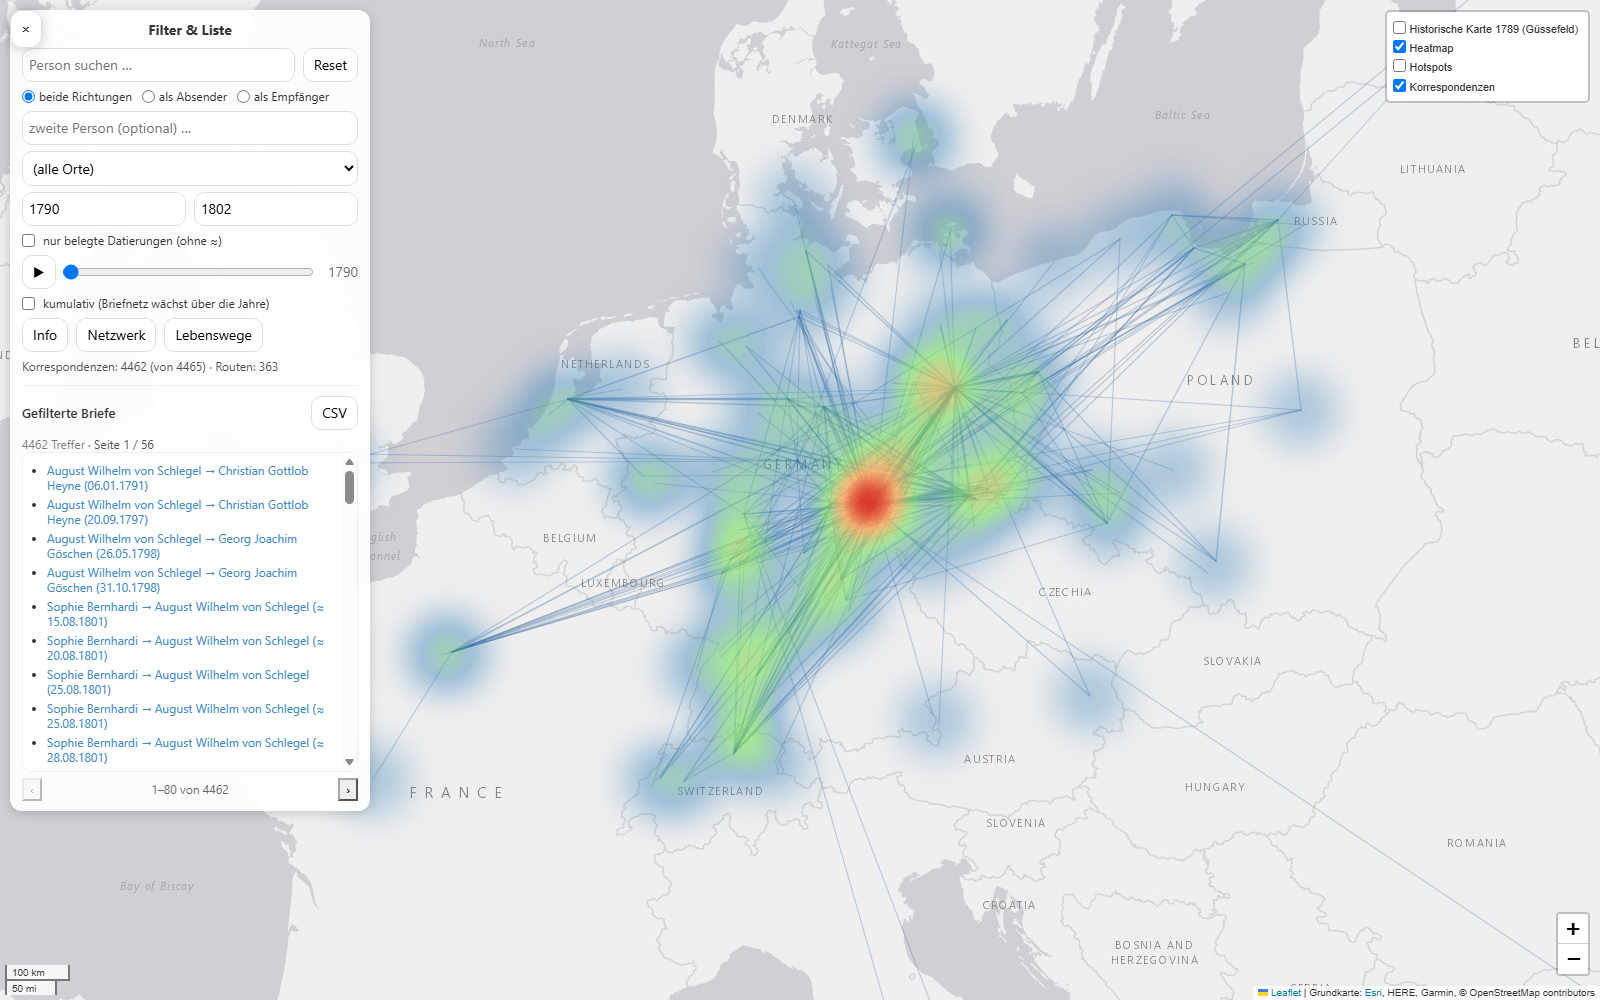
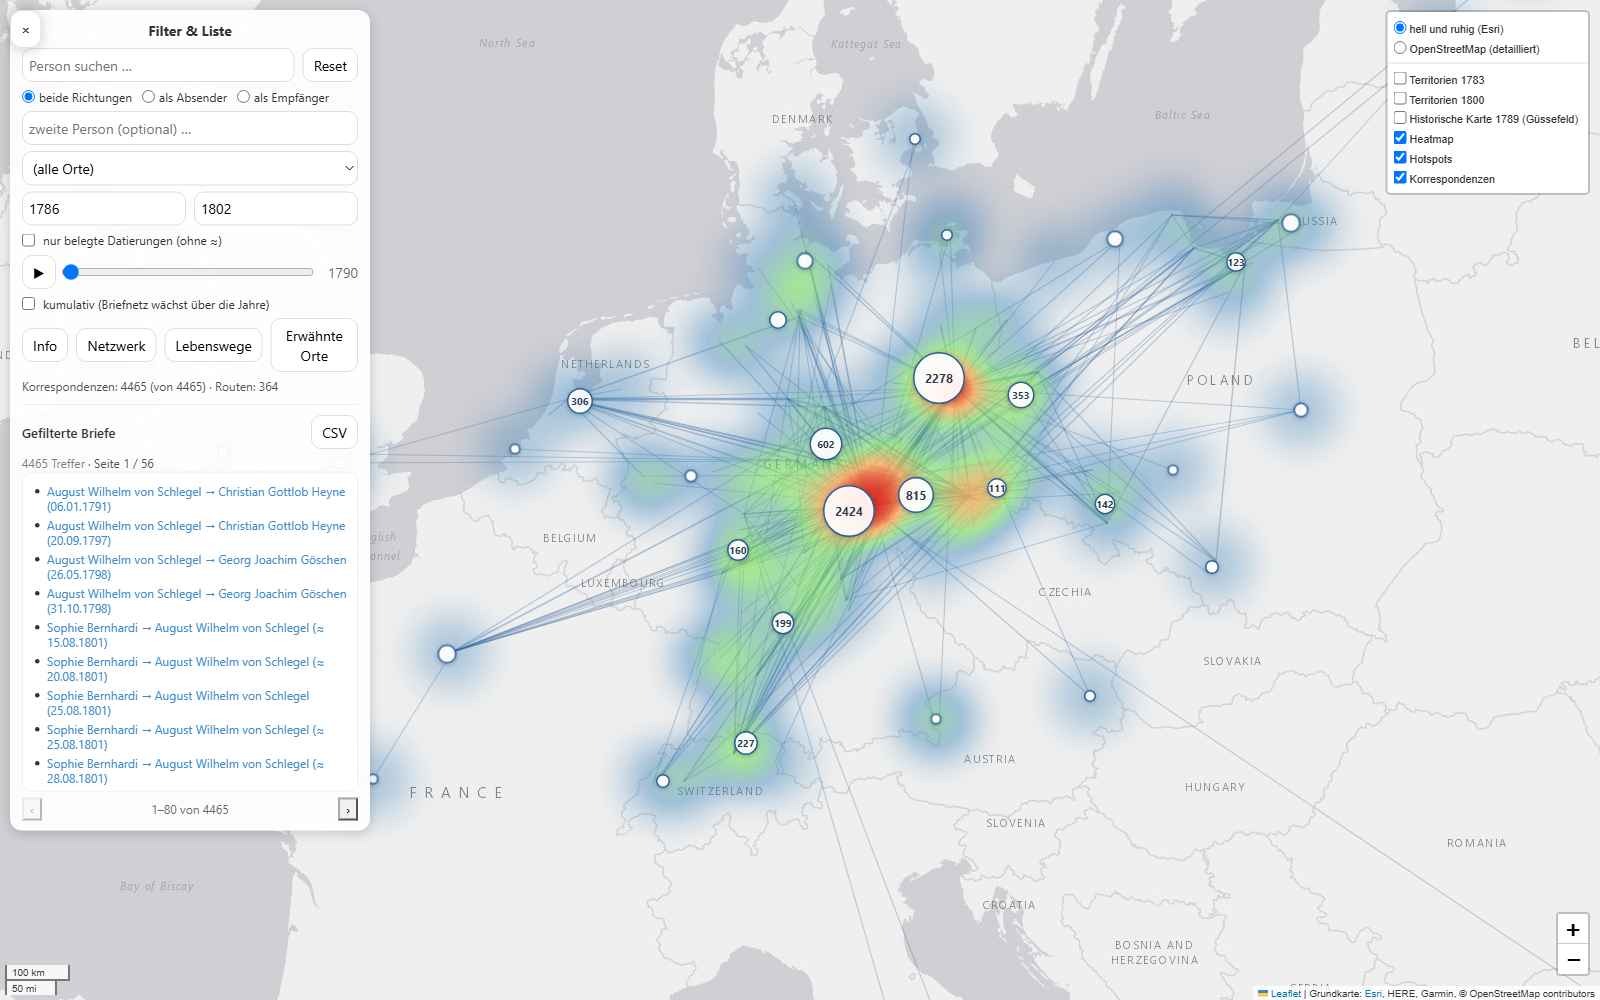
docs: show the views, and describe the tools that feed them
The screenshots were a round behind the map -- old base layer, hotspots still on
at start, no territories. All four are retaken, and four more join them for the
views that had none: territories, network, Lebenswege, mentioned places. They
open the README as a gallery, since a map is easier shown than described.

Documented besides: the two data helpers in tools/ (they had no section of
their own), the page cache and ROMKORR_CACHE, and what data/raw actually holds.
The status list had stopped short of the last few rounds of work.

diff --git a/README.md b/README.md
@@ -10,6 +10,17 @@ Die Karte eignet sich für **Exploration der Briefe**, **Forschung**, **Lehre** 
 
 ---
 
+## Ansichten
+
+| | |
+|---|---|
+| ![Startansicht](screenshots/full_map.png) **Start:** Routen zwischen Absende- und Empfangsort; Filter und Trefferliste links, Ebenen rechts. | ![Personenfilter](screenshots/filter_example_Schleiermacher.png) **Personenfilter:** alle Briefe von und an Schleiermacher, mit Hotspots. |
+| ![Heatmap](screenshots/Heatmap.png) **Heatmap:** Dichte der Brieforte, folgt den Filtern. | ![Historische Karte 1789](screenshots/historische_karte_1789.png) **Historische Karte:** Güssefeld 1789, georeferenziert mit Allmaps. |
+| ![Territorien 1783](screenshots/territorien_1783.png) **Territorien:** Grenzverläufe um 1783 bzw. 1800 als eigene Ebenen. | ![Netzwerk](screenshots/netzwerk.png) **Netzwerk:** wer schrieb wem — Klick auf eine Person filtert die Karte. |
+| ![Lebenswege](screenshots/lebenswege.png) **Lebenswege (Beta):** eine Person über ihre Aufenthaltsorte durch die Zeit. | ![Erwähnte Orte](screenshots/erwaehnte_orte.png) **Erwähnte Orte (Beta):** worüber geschrieben wurde — orange heißt: besprochen, aber ohne Briefverkehr. |
+
+---
+
 ## Projektidee
 
 Das Projekt verfolgt drei Hauptziele:
@@ -32,7 +43,12 @@ Das Projekt verfolgt drei Hauptziele:
 
 │
 ├── data/
-│ ├── raw/ # Rohdaten (externe Quellen, unverändert)
+│ ├── raw/ # Rohdaten und Nachschlagewerke
+│ │ ├── place_coords.csv # Ortsverzeichnis (Koordinaten aus Normdaten)
+│ │ ├── mentions.csv # im Brieftext erwähnte Orte je Brief
+│ │ ├── borders_1783.geojson # historische Territorien (zugeschnitten)
+│ │ ├── borders_1800.geojson
+│ │ └── georef_map.json # Allmaps-Annotation der Karte von 1789
 │ └── processed/ # Aufbereitete Daten (zentrale Arbeitsbasis)
 │ ├── letters_master.csv
 │ ├── letters_master.parquet
@@ -51,7 +67,10 @@ Das Projekt verfolgt drei Hauptziele:
 ├── tools/ # Hilfsskripte
 │ ├── check_gcps.py # Passpunkte der Georeferenzierung prüfen
 │ ├── tps_fold.py # Faltungen der Georeferenzierung finden
-│ └── prepare_borders.py # historische Territorialgrenzen aufbereiten
+│ ├── prepare_borders.py # historische Territorialgrenzen aufbereiten
+│ └── prepare_mentions.py # erwähnte Orte aus dem Register lesen
+│
+├── screenshots/ # Ansichten der Karte (Dokumentation)
 │
 ├── backup/ # Manuelle Sicherungen (nicht versioniert)
 │
@@ -90,6 +109,14 @@ Die Notebooks sind nummeriert und werden **in dieser Reihenfolge** ausgeführt.
 **Ergebnis**
 - Rohdaten (CSV) in `data/raw/`, gefiltert in `data/processed/rom_korr_full_website.csv`
 - Noch keine Geokoordinaten (die entstehen in 02 aus den Normdaten-Links)
+
+**Seiten-Cache**
+Jede Briefseite und jede TEI-Datei wird lokal abgelegt, damit ein abgebrochener Lauf
+ohne neue Abrufe weitergehen kann — rund 10.000 Dateien. Der Cache liegt bewusst
+**außerhalb** des Projektordners, weil dieser hier in einem synchronisierten Laufwerk
+liegt; voreingestellt ist `%LOCALAPPDATA%\romkorr_scrape_cache` (unter Linux/macOS
+`~/.cache/romkorr`). Mit der Umgebungsvariablen `ROMKORR_CACHE` lässt sich ein anderer
+Ort vorgeben; `tools/prepare_mentions.py` liest denselben Cache.
 
 Dieses Notebook muss nur neu ausgeführt werden, wenn sich die Quelldaten ändern.
 
@@ -142,10 +169,12 @@ Diese Dateien bilden die **Grundlage aller weiteren Analysen und Visualisierunge
 - Darstellung von:
   - Korrespondenz-Routen (gebündelt; Liniendicke/Deckkraft = Briefanzahl, Klick zeigt Richtungs-Statistik)
   - filterabhängige Heatmap (Verlauf blau→grün→rot), im Ebenen-Menü zuschaltbar
-  - **Territorien um 1800** als zuschaltbare Ebene: 50 Gebiete mit Namen, aus dem
+  - **Territorien 1783 und 1800** als zuschaltbare Ebenen (53 bzw. 50 Gebiete mit Namen), aus dem
     Datensatz [historical-basemaps](https://github.com/aourednik/historical-basemaps)
-    (GPL-3.0). Gewählt ist das Stützjahr 1800 — der Bestand hat seinen Median 1798,
-    77 % der Briefe stammen aus 1795 oder später. Aufbereitet von
+    (GPL-3.0). Zwei Stützjahre, weil beide etwas anderes zeigen: **1783** liegt nahe an
+    der Güssefeld-Karte von 1789 und kennt noch Polen, die Niederlande und die Alte
+    Eidgenossenschaft; **1800** liegt näher am Schwerpunkt des Bestands (Median 1798,
+    77 % ab 1795) und zeigt Batavische und Helvetische Republik. Aufbereitet von
     `tools/prepare_borders.py`; Beschriftungen erscheinen zoomabhängig, damit
     Kleinstaaten die Übersicht nicht zustellen
   - Hotspots als Proportionalkreise (Kreisfläche und Zahl = Briefanzahl im aktiven
@@ -166,6 +195,12 @@ Diese Dateien bilden die **Grundlage aller weiteren Analysen und Visualisierunge
     ein Regler springt von Station zu Station. Zwei Personen lassen sich vergleichen.
     Erschlossene Orte und Daten sind gestrichelt gezeichnet. Läuft auf einer eigenen
     Karteninstanz, damit die Hauptkarte unberührt bleibt
+  - **Erwähnte Orte (Beta)**: eigene Ansicht der „Gesprächsgeografie" — nicht wohin Briefe
+    liefen, sondern worüber in ihnen gesprochen wurde. Grundlage ist das Ortsregister der
+    Edition (`tools/prepare_mentions.py`, gelesen aus dem lokalen Seiten-Cache). Kreisgröße =
+    Zahl der Erwähnungen, Farbe = Verhältnis zwischen Erwähnung und Briefverkehr auf einer
+    zweipoligen Skala (blau: vor allem Poststation, orange: wird besprochen, ohne dass Post
+    dorthin ging). 401 Orte, davon 261 ohne eigenen Briefverkehr
   - Ergebnisliste mit Pagination
 - Historische Karten-Ebene: F. L. Güssefeld, „Charte das Deutsche Reich" (Nürnberg 1789,
   Homännische Erben) als zuschaltbares Overlay über der modernen Karte — Punkte, Linien
@@ -218,6 +253,30 @@ waren damals fehleranfällig, Randstaaten weniger sorgfältig konstruiert).
 Nützlich sind die Skripte besonders beim Wechsel auf Thin Plate Spline: Die affine
 Transformation mittelt einen falschen Passpunkt weg, TPS zwingt sich exakt durch ihn
 hindurch und faltet dabei die Umgebung.
+
+---
+
+## Datenhilfen (`tools/`)
+
+Zwei weitere Skripte erzeugen Zusatzdaten für die Karte. Beide laufen selten — nur,
+wenn die Grundlage sich ändert — und schreiben nach `data/raw/`.
+
+```bash
+python tools/prepare_borders.py          # beide Stützjahre; oder: ... 1800
+python tools/prepare_mentions.py         # optional: Pfad zum Seiten-Cache
+```
+
+`prepare_borders.py` lädt die Weltdatei des Datensatzes
+[historical-basemaps](https://github.com/aourednik/historical-basemaps) (GPL-3.0),
+schneidet sie mit Sutherland-Hodgman auf den Briefraum zu, führt gleichnamige Gebiete
+zusammen und berechnet je Gebiet einen Beschriftungspunkt samt Mindest-Zoomstufe.
+Der Zuschnitt spart den größten Teil der 1,8 MB; eine Geometrie-Bibliothek ist nicht nötig.
+
+`prepare_mentions.py` liest das Ortsregister der Briefseiten aus dem Seiten-Cache von
+Notebook 01 (s. u.) und schreibt `data/raw/mentions.csv`. Die Register-Einträge tragen
+GND- und GeoNames-Nummern, sodass die Koordinaten über dieselbe Kaskade wie in Notebook 02
+aufgelöst und in `place_coords.csv` ergänzt werden. Nur für noch unbekannte Orte geht
+eine Anfrage hinaus; an die Edition selbst geht keine.
 
 ---
 
@@ -281,10 +340,15 @@ Der aktuelle Stand bietet:
 
 - stabilen, reproduzierbaren Workflow (Koordinaten aus Normdaten GeoNames/GND
   statt blindem Geocoding; inkl. Harmonisierung fehlerhafter Geokodierungen)
-- kombinierbare Filter: Person (Suchfeld), Ort, Jahr, Route, nur belegte Datierungen
-- Routen-Bündelung, filterabhängige Heatmap, Zeit-Animation
+- Datierung aus dem TEI (`@when`), erschlossene Angaben als solche gekennzeichnet
+- kombinierbare Filter: Person (Suchfeld), zweite Person, Richtung, Ort, Jahr,
+  Route, nur belegte Datierungen
+- Routen-Bündelung, filterabhängige Heatmap und Hotspots, Zeit-Animation
 - Netzwerk-Ansicht der Korrespondenzen
-- historische Karten-Ebene (Güssefeld 1789, georeferenziert mit Allmaps)
+- Lebenswege und erwähnte Orte als eigene Beta-Ansichten
+- historische Karten-Ebene (Güssefeld 1789, georeferenziert mit Allmaps) sowie
+  Territorien um 1783 und 1800
+- zwei Basiskarten zur Wahl (Esri hell voreingestellt, OpenStreetMap detailliert)
 - einheitliches, validiertes Farbschema „Tinte & Preußischblau" (lesbar auf
   moderner wie historischer Karte, farbfehlsichtigkeits-geprüft)
 - Permalinks und CSV-Export
